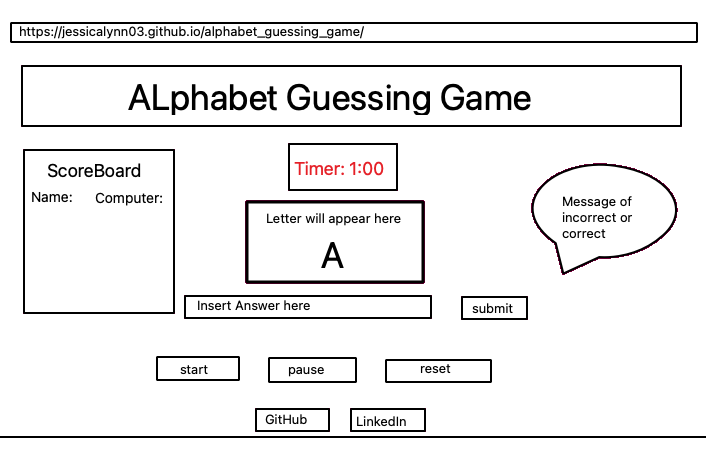
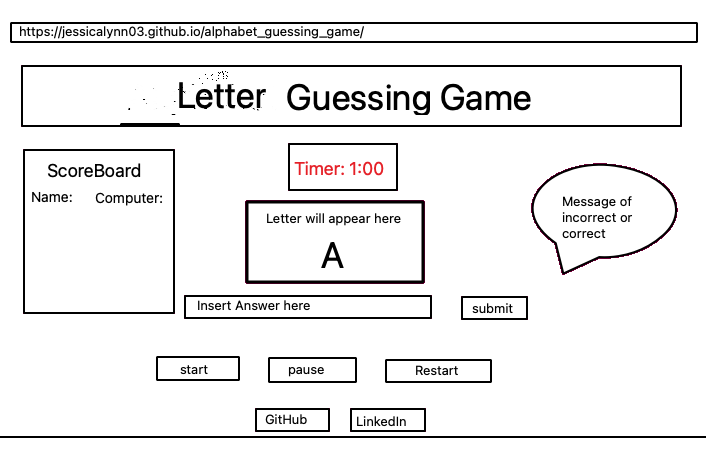
pseudo code text created

Changed region(s): [[0.187, 0.1854, 0.4051, 0.2781], [0.5921, 0.8035, 0.6544, 0.8344]]

diff --git a/index.html b/index.html
@@ -9,7 +9,8 @@
     <link rel="stylesheet" href="./css/style.css">
 </head>
 <body>
-    <h1>Guess the Alphabet: A-Z</h1>
+    <header><h1>Guess the Alphabet: A-Z</h1></header>
+    
     <p>I am thinking of a letter from A-Z. Can you guess what the letter is?</p>
     <form>
     <label for="guess">My Guess</label>
